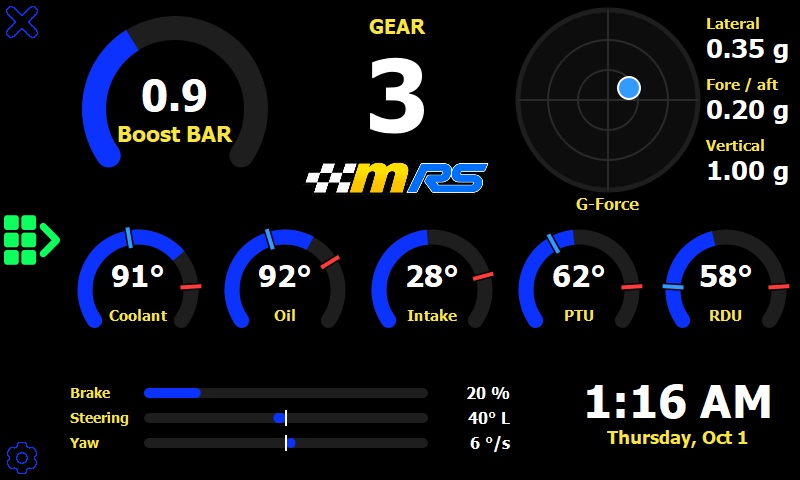
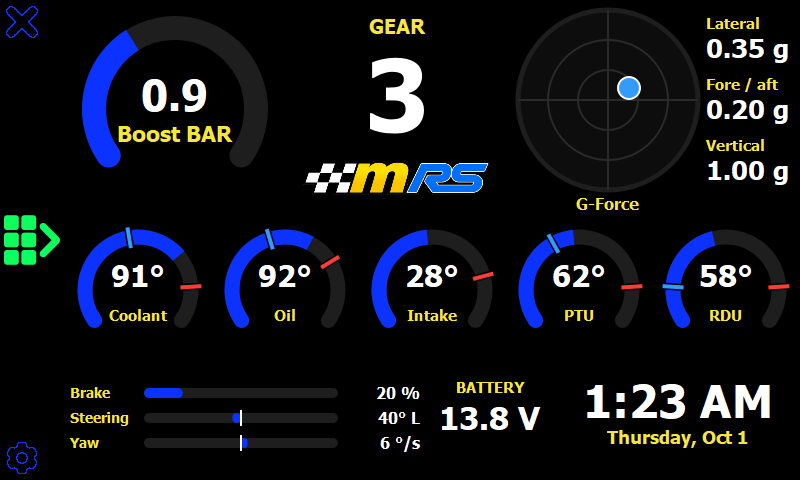
RSdash v2.17.1JC: battery voltage on the engine page
Shows the OBD-port battery voltage between the brake/steering/yaw bars
and the clock; "--" until the ESP32 has a reading, red under 12 V or
over 15 V. The bars are narrower to make room. Harness covers it.

diff --git a/SyncMyMod/app/PrimaryView.qml b/SyncMyMod/app/PrimaryView.qml
@@ -39,13 +39,16 @@ Rectangle {
         { gaugeId: vertGState,    param: "vertG" },
         { gaugeId: yawBar,        param: "yaw" },
         { gaugeId: steeringBar,   param: "steering" },
-        { gaugeId: brakeBar,      param: "brake" }
+        { gaugeId: brakeBar,      param: "brake" },
+        { gaugeId: batteryState,  param: "battery" }
     ]
 
     Item { id: gearState;  property real currentValue: -1 }
     Item { id: latGState;  property real currentValue: 0 }
     Item { id: longGState; property real currentValue: 0 }
     Item { id: vertGState; property real currentValue: 0 }
+    // Volts at the OBD port; -1 until the ESP32 has a reading
+    Item { id: batteryState; property real currentValue: -1 }
 
     PageChrome {
         id: chrome
@@ -386,7 +389,7 @@ Rectangle {
         id: driverBars
         x: 70
         y: 382
-        width: 440
+        width: 350
         spacing: 3
 
         // Pressure on the brake pedal, % of the sensor's range
@@ -434,6 +437,42 @@ Rectangle {
             minValue: -90
             maxValue: 90
             valueText: Math.round(currentValue) + " °/s"
+        }
+    }
+
+    // --- Battery voltage, between the bars and the clock
+
+    Item {
+        id: batteryArea
+        x: 430
+        y: 372
+        width: 120
+        height: 90
+
+        Text {
+            id: batteryLabel
+            anchors.horizontalCenter: parent.horizontalCenter
+            anchors.top: parent.top
+            anchors.topMargin: 6
+            font.pixelSize: 15
+            font.weight: Font.Bold
+            color: "#F8E63C"
+            text: "BATTERY"
+        }
+
+        // Red when the battery is flat (under 12 V with the engine off, and
+        // lower than the alternator should ever leave it with it running) or
+        // the charging is too high
+        Text {
+            id: batteryText
+            anchors.horizontalCenter: parent.horizontalCenter
+            anchors.top: batteryLabel.bottom
+            anchors.topMargin: 2
+            font.pixelSize: 32
+            font.weight: Font.Bold
+            color: batteryState.currentValue >= 0 && (batteryState.currentValue < 12 || batteryState.currentValue > 15)
+                   ? "#ce1845" : "white"
+            text: batteryState.currentValue < 0 ? "--" : batteryState.currentValue.toFixed(1) + " V"
         }
     }
 

diff --git a/dev/harness.py b/dev/harness.py
@@ -347,8 +347,13 @@ def engine_page(h):
             "no speed, lambda, torque split or control buttons on this page")
     check_chrome(h)
     h.check(boxes_clear(h, ["boostGauge", "gearArea", "gForceGauge", "gReadouts", "coolantGauge", "oilGauge", "iatGauge",
-                            "ptuGauge", "rduGauge", "driverBars"]),
+                            "ptuGauge", "rduGauge", "driverBars", "batteryArea", "clockArea"]),
             "every gauge is on the screen and none overlap")
+    h.check(h.eval("batteryText.text") == "13.8 V" and h.eval("driverBars.x + driverBars.width <= batteryArea.x"
+                   " && batteryArea.x + batteryArea.width <= clockArea.x"
+                   " && Math.abs(batteryArea.y - clockArea.y) < 1 && batteryText.paintedWidth <= batteryArea.width"),
+            "the battery voltage (13.8 V) sits between the bars and the clock")
+    h.check(h.eval("String(batteryText.color)") == "#ffffff", "white when charging normally")
     h.check(h.eval("(function() { var row = [coolantGauge, oilGauge, iatGauge, ptuGauge, rduGauge];"
                    " return row.every(function(g, i) { return g.y === row[0].y && g.width === row[0].width"
                    " && (i === 0 || (g.x > row[i - 1].x + row[i - 1].width && g.x - row[i - 1].x === row[1].x - row[0].x)); })"
@@ -381,6 +386,20 @@ def engine_page(h):
     h.check(h.eval("timeText.paintedWidth <= clockArea.width && dateText.paintedWidth <= clockArea.width"), "and they fit")
     h.eval("primaryViewRect.now = new Date()")
     h.shot("engine_page")
+
+
+@scenario
+def battery_voltage(h):
+    """Battery voltage on the engine page: a dash before the first reading, red when low or too high."""
+    h.start_app(pids={"battery": -1})
+    h.check(h.eval("batteryText.text") == "--" and h.eval("String(batteryText.color)") == "#ffffff",
+            "a dash, not red, before the ESP32 has a reading")
+    for volts, text, colour in ((12.4, "12.4 V", "#ffffff"), (11.6, "11.6 V", "#ce1845"), (14.4, "14.4 V", "#ffffff"),
+                                (15.4, "15.4 V", "#ce1845")):
+        with h.mock.lock:
+            h.mock.pids["battery"] = volts
+        h.check(h.wait_until("batteryText.text === %r" % text, 2000) and h.eval("String(batteryText.color)") == colour,
+                "%s reads %s, %s" % (volts, text, "red" if colour != "#ffffff" else "white"))
 
 
 @scenario

diff --git a/dev/mock_esp32.py b/dev/mock_esp32.py
@@ -28,6 +28,7 @@ DEFAULT_PIDS = {
     "boost": 0.9, "coolant": 91, "iat": 28,               # bar, C, C
     "speed": 87, "wheelFL": 87, "wheelFR": 87.5, "wheelRL": 86.5, "wheelRR": 87,   # km/h
     "gear": 3, "latG": 0.35, "longG": 0.2, "vertG": 1.0,  # g
+    "battery": 13.8,                                      # V at the OBD port
     "yaw": 6, "steering": -40, "brake": 20,               # deg/s, deg (positive right), % of range
 }
 

diff --git a/README.md b/README.md
@@ -141,7 +141,7 @@ Starting from v2.16.0, the Controls page tells live controls from startup ones a
 Starting from v2.17.0, the main view is two pages, and the left edge has a Controls button:
 
 - **Engine page** (`SyncMyMod/app/PrimaryView.qml`, `Components/GForceGauge.qml`, `Components/BarGauge.qml`)
-  - The page you land on. **Boost** is the big gauge on the left, with the **gear** (N, 1-6, R) and the pulsing logo in the middle and a **G-force plot** (a dot on 0.5 g rings, red past 1 g) with lateral, fore/aft and vertical G on the right. A row of five temp gauges follows: **coolant**, **oil**, **intake air**, **PTU** and **RDU** (blue and red marks at their cold and hot limits). **Brake**, **steering** and **yaw** are small bars along the bottom left; steering and yaw fill from the middle, so you can see which way. The system **date and time** are at the bottom right, in the Sync 3's own format. All of these come from the new firmware's `/pids` values (`boost`, `gear`, `coolant`, `iat`, `ptu`, `rdu`, `latG`, `longG`, `vertG`, `yaw`, `steering`, `brake`).
+  - The page you land on. **Boost** is the big gauge on the left, with the **gear** (N, 1-6, R) and the pulsing logo in the middle and a **G-force plot** (a dot on 0.5 g rings, red past 1 g) with lateral, fore/aft and vertical G on the right. A row of five temp gauges follows: **coolant**, **oil**, **intake air**, **PTU** and **RDU** (blue and red marks at their cold and hot limits). **Brake**, **steering** and **yaw** are small bars along the bottom left; steering and yaw fill from the middle, so you can see which way. The **battery voltage** (red under 12 V or over 15 V) and the system **date and time** are at the bottom right, in the Sync 3's own format. All of these come from the new firmware's `/pids` values (`boost`, `gear`, `coolant`, `iat`, `ptu`, `rdu`, `latG`, `longG`, `vertG`, `yaw`, `steering`, `brake`).
   - There is no speed gauge. Lambda is gone too: the new firmware never asks the engine computer for it (`lambda` is always 0), so there is nothing to show. The Not Alone torque split gauge went with it, and the OBD toggle on the settings page no longer changes the gauge pages.
   - Tapping the logo opens the AWD page.
 
